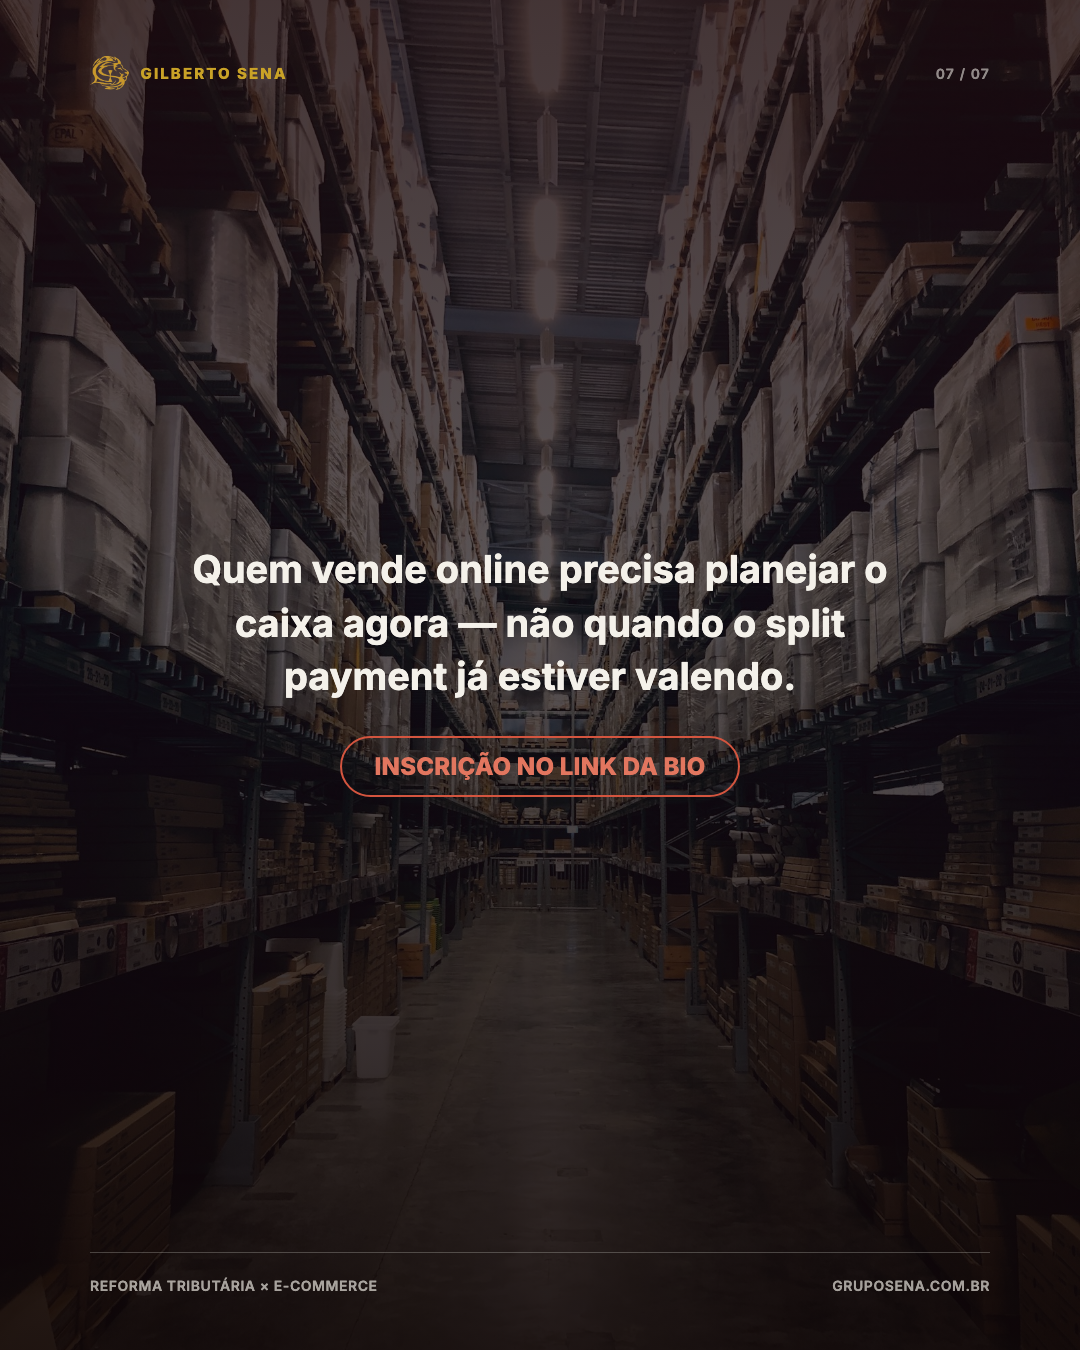
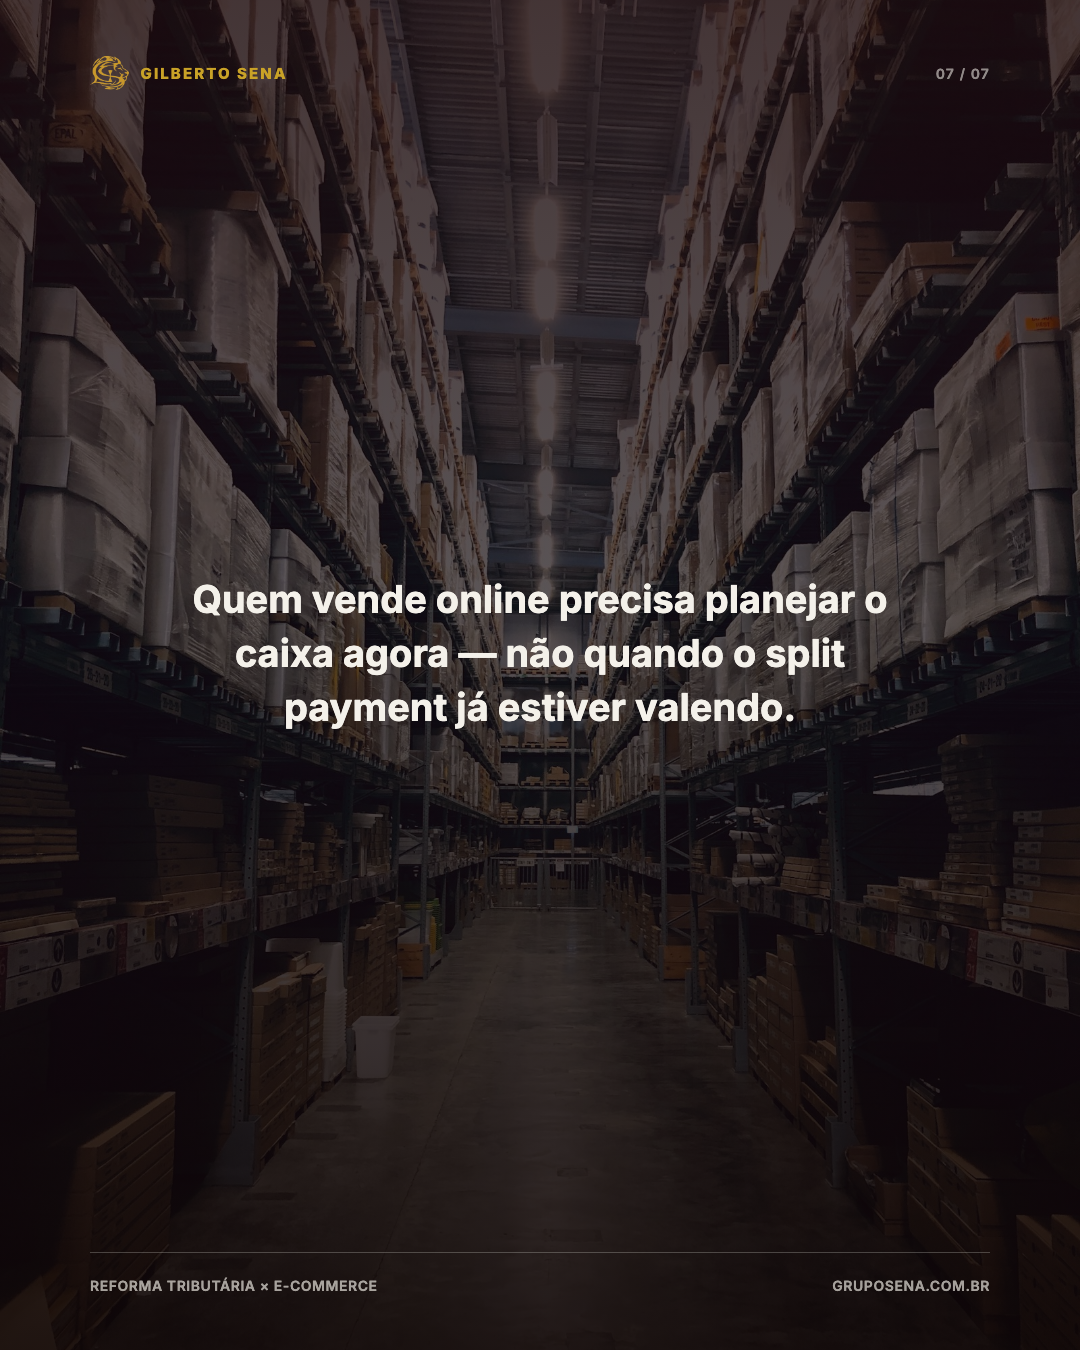
Carrosseis: 8 agendados de 4 a 11/11 as 18h, conferidos contra os fichamentos

Changed region(s): [[0.1833, 0.4044, 0.825, 0.5911]]

diff --git a/saidas/CARROSSEIS/carrossel-ecommerce-alerta-2026-08-27/carrossel.html b/saidas/CARROSSEIS/carrossel-ecommerce-alerta-2026-08-27/carrossel.html
@@ -141,6 +141,5 @@
     <span class="counter">07 / 07</span>
   </div>
   <div class="cta-line">Quem vende online precisa planejar o caixa agora — não quando o split payment já estiver valendo.</div>
-  <div class="cta-tag">Inscrição no link da bio</div>
   <div class="footer"><span>REFORMA TRIBUTÁRIA × E-COMMERCE</span><span>GRUPOSENA.COM.BR</span></div>
 </div>

diff --git a/_memoria/onde-paramos.md b/_memoria/onde-paramos.md
@@ -20,7 +20,7 @@ novo.** O acervo das gravações longas acabou: 4 trechos ficaram de fora de pro
 | Frente | Onde está | O que falta |
 |---|---|---|
 | **Imersão AME** (14 e 15/nov) | quiz e página de vendas no ar, slides, kit, 4 reels de teste publicados | link na bio, contrato do cliente, regras CFM/CFO, dados dele pros slides, logo original |
-| **Fila do Instagram** | Provérbios até 30/11, frase até 7/11 e 30/11, carrossel até 3/11, reels até 3/12 | carrossel a partir de 4/11; 22 frases (8 a 29/11); foto de dezembro do Provérbios |
+| **Fila do Instagram** | Provérbios até 30/11, frase até 7/11 e 30/11, carrossel até 11/11, reels até 3/12 | carrossel a partir de 12/11 (não tem nenhum pronto); 22 frases (8 a 29/11); foto de dezembro do Provérbios |
 | **YouTube** | 26 cortes do carro agendados até 4/11 às 13h | vídeo novo depois de 4/11 (o acervo das gravações longas acabou) |
 | **TikTok** | agendado até 9/11 | vídeo novo depois de 9/11 |
 | **Reels "O Preço do Amanhã"** | roteiro pronto (`saidas/REELS/reels-preco-do-amanha-2026-10-30/`) | ele gravar; a frase final é sugestão minha |
@@ -93,7 +93,7 @@ não tem conserto aqui: nem o transcritor mais forte entende a fala. Pedir o arq
 importantes, falta empatia e amor, longe do que Jesus ensina; Mateus 22:39). **Falta ele gravar.** Sem cena do filme.
 A frase final ("o seu tempo vale muito, mas a pessoa do seu lado vale mais") é sugestão minha: ele aprova ou troca.
 
-**Duas frentes abertas.** (1) Continuar enfileirando os carrosséis, **1 por dia às 18h a partir de 4/11**
+**Duas frentes abertas.** (1) Continuar enfileirando os carrosséis, **1 por dia às 18h a partir de 12/11** (de 4 a 11/11 agendados em 30/out; **não sobrou nenhum pronto**, ver `saidas/CARROSSEIS/_PLANO-DA-FILA.md`)
 (grade de 4 posts por dia, decidida em 18/out). (2) O projeto Reestruturando com Êxito, que ele vai
 alimentando aos poucos — ver a seção logo abaixo.
 
@@ -102,7 +102,7 @@ alimentando aos poucos — ver a seção logo abaixo.
 assinada está na Downloads. Em `juridico/exito/` (só no notebook, fora do GitHub: decisão dele em 27/out) estão o estatuto e as duas cartas (a de afastamento temporário, art. 23, não
 foi usada). ⚠ Se a saída se confirmar, o Reestruturando com Êxito (proposta a uma diretoria do Instituto) cai junto.
 
-**Carrosséis: fila fechada até 3/11, 1 por dia às 18h** (eram 20h; ele mudou em 21/out para o carrossel fechar o dia). Próximo: **4/11**. Da série dos 5 Gs, o 1, o 2 e o 3 já saíram (22, 25 e 26/10); faltam
+**Carrosséis: fila fechada até 11/11, 1 por dia às 18h** (4 a 11/11 entraram em 30/out) (eram 20h; ele mudou em 21/out para o carrossel fechar o dia). Próximo: **4/11**. Da série dos 5 Gs, o 1, o 2 e o 3 já saíram (22, 25 e 26/10); faltam
 **4 Tributária (1/11, prazos refeitos em 18/out)** e 5 Fornecedores (2/11). Segurados: o Representante Comercial (prazo de setembro);
 o Forjado (anuncia imersão: confirmar); o Rede de Mastermind (critica grupo pago; com ele diretor do Instituto Êxito,
 **decisão dele**). Lista em `saidas/CARROSSEIS/_PLANO-DA-FILA.md`.

diff --git a/saidas/CARROSSEIS/_PLANO-DA-FILA.md b/saidas/CARROSSEIS/_PLANO-DA-FILA.md
@@ -77,7 +77,36 @@ pastas que usam esse modelo e as lâminas foram regeradas; nos posts agendados, 
 
 **★ 21/out: o carrossel passou para as 18h** (pedido dele, para fechar o dia); os 13 da fila, de 22/10 a 3/11, foram movidos na Zernio.
 
-**Próximo a enfileirar: 4/11 às 18h.** Os que passaram na varredura de prazo (sem "setembro", "30/11", autônomo):
+**★ 30/out: fila fechada até 11/11, 1 por dia às 18h** (Instagram):
+
+| Dia | Carrossel | ID Zernio |
+|---|---|---|
+| 04/11 | `saude-geral-reforma` | `6ae43257a8088c0c5c193752` |
+| 05/11 | `comercio-reforma` | `6ae4325ca8088c0c5c193778` |
+| 06/11 | `odontologia-reforma` | `6ae4325fa8088c0c5c193794` |
+| 07/11 | `entregadores-app-reforma` | `6ae43265a8088c0c5c1937dc` |
+| 08/11 | `clinicas-esteticas-reforma` | `6ae4328e5c5ef142e826fce2` |
+| 09/11 | `educacao-reforma` | `6ae432934f71ac3322b98b0c` |
+| 10/11 | `biomedicina-reforma` | `6ae432984a34f3146da366b3` |
+| 11/11 | `ecommerce-alerta` (saiu o "Inscrição no link da bio" da lâmina 7 e da legenda: o link da bio hoje é o da Imersão AME) | `6ae4329d922df48cacc41c4f` |
+
+Conferidos em 30/out contra os fichamentos (60% saúde, art. 47, 25% do entregador, Anexo II, US$ 50 e 9,43%). As
+quatro de saúde caem na semana antes da Imersão AME (14 e 15/11). **Próximo a enfileirar: 12/11 às 18h.**
+
+**Ficaram de fora em 30/out, e por quê:**
+- `medicos-reforma-2026-08-27`: repete o `reforma-medicos` que saiu em 23/10 ("Médico tem 60%, não 30%").
+- `servicos-alerta`: a CBS de "9,24%" não bate com o fichamento (≈ 8,8%); a capa diz "quase dobrar" e a lâmina 4 "quase o
+  triplo"; e põe médico entre os de 30%, quando médico tem 60%. Precisa ser refeito.
+- `industria-reforma`: diz que o IPI vai a zero em 2027 pra quase tudo, e a notícia de 8/out diz que a carga do IPI fica
+  nos setores do Imposto Seletivo; o "prazo técnico até o fim de 2026" também precisa ser reconferido.
+- `reforma-ecommerce-2026-09-13`: a linha do tempo diz que em 2027 "o Imposto Seletivo começa" e "o split payment passa a
+  valer". O split só começa no 2º semestre de 2027, em etapas, e o IS pode ficar pra fevereiro. Precisa de ajuste.
+- `10-ebooks-leitura`: 12 lâminas, o Instagram aceita 10. Decisão dele.
+
+**O que sobrou de bom pra 12/11 em diante: nada pronto.** Os que restam estão segurados (tabela abaixo) ou na lista acima.
+Caminho: refazer os 3 com ajuste (serviços, indústria, reforma-ecommerce) ou fazer carrossel novo.
+
+(Histórico) Próximo a enfileirar era 4/11 às 18h. Os que passaram na varredura de prazo (sem "setembro", "30/11", autônomo):
 `biomedicina-reforma`, `comercio-reforma`, `ecommerce-alerta`, `educacao-reforma`, `entregadores-app-reforma`,
 `medicos-reforma-08-27` (tema repetido com o de 30/10: espaçar), `odontologia-reforma`, `reforma-ecommerce` e
 `industria-reforma` (os dois últimos: ler contra a notícia do IS de 8/out), `saude-geral-reforma`,

diff --git a/_memoria/cronograma-de-postagens.md b/_memoria/cronograma-de-postagens.md
@@ -11,7 +11,7 @@ e no YouTube *"5 reels por dia, pois quero movimentar o canal"*, com *"os reels 
 
 | Rede | Grade | Até quando está coberto |
 |---|---|---|
-| **Instagram** | **5h** Provérbios · **9h** frase do dia (**todo dia**, desde 18/out) · **12h** um reel novo · **18h** carrossel (era 20h; mudou em 21/out para fechar o dia) | reels até **3/12**; Provérbios até 30/11; frase até **7/11** (e 30/11); carrossel até **3/11** |
+| **Instagram** | **5h** Provérbios · **9h** frase do dia (**todo dia**, desde 18/out) · **12h** um reel novo · **18h** carrossel (era 20h; mudou em 21/out para fechar o dia) | reels até **3/12**; Provérbios até 30/11; frase até **7/11** (e 30/11); carrossel até **11/11** |
 | **YouTube** | **5 reels por dia: 7h, 10h, 13h, 16h, 19h** (antigos e novos) | até **4/11 às 13h** (cortes do carro, agendados em 30/out) |
 | **TikTok** | sem mudança: os horários que já tinham (6h, 12h e 18h) | até 9/11 |
 
@@ -30,7 +30,7 @@ e no YouTube *"5 reels por dia, pois quero movimentar o canal"*, com *"os reels 
 
 | O quê | A partir de | Quanto |
 |---|---|---|
-| Carrossel das 18h | **4/11** | 1 por dia. Ver os segurados em `saidas/CARROSSEIS/_PLANO-DA-FILA.md` |
+| Carrossel das 18h | **12/11** | 1 por dia. Os de 4 a 11/11 entraram em 30/out; não sobrou nenhum pronto (ver `saidas/CARROSSEIS/_PLANO-DA-FILA.md`) |
 | Provérbios das 5h | **1/12** | foto de dezembro (e saber se vêm frases novas) |
 | Frase do dia das 9h | **8/11** (e de 8 a 29/11) | 22 frases novas (o 30/11 já está agendado) |
 | YouTube | **4/11 às 16h** | 5 por dia: os cortes das gravações do carro cobrem até 4/11 às 13h; depois precisa de vídeo novo |

diff --git a/saidas/CARROSSEIS/carrossel-ecommerce-alerta-2026-08-27/legenda.md b/saidas/CARROSSEIS/carrossel-ecommerce-alerta-2026-08-27/legenda.md
@@ -8,8 +8,6 @@ Se você vende em marketplace ou loja online, a reforma tributária vai mexer di
 
 Quem vende online precisa planejar o caixa agora, não quando o split payment já estiver valendo.
 
-Inscrição no link da bio.
-
 Gilberto Sena. Grupo Sena Soluções Empresariais.
 
 #reformatributaria #ecommerce #marketplace #splitpayment #dropshipping #importados #direitotributario #planejamentotributario #ibs #cbs #gestaoempresarial #vendaonline #gilbertosena
